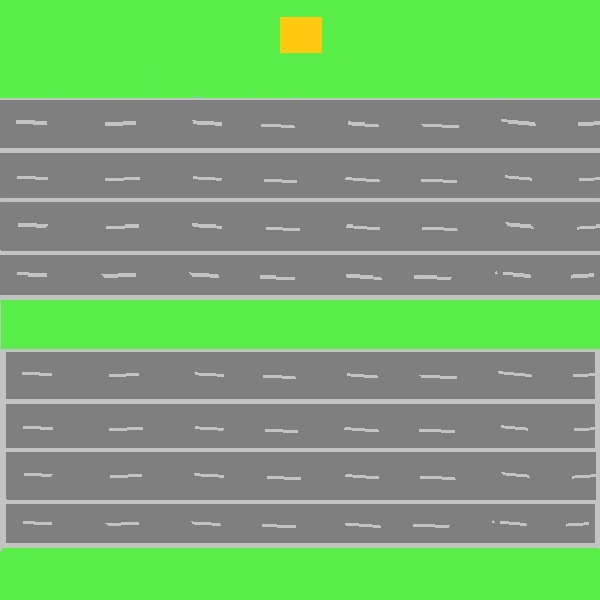
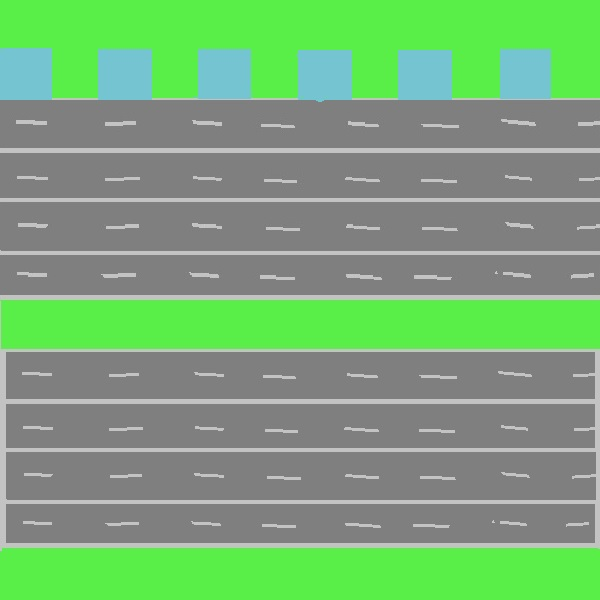
fin

diff --git a/javascript/main.js b/javascript/main.js
@@ -10,7 +10,8 @@ let ctx = miCanvas.getContext("2d");
 let w = miCanvas.clientWidth;
 let h = miCanvas.clientHeight;
 let body = document.getElementById("body");
-let ranita = new Rana(250,550,50,50,"red");
+let ranita = new Rana(250,550,50,50);
+let casa = new Rectangulo(250,0,0,0,100,50,"Brown")
 let carros = new Array();
 let lilypads = new Array();
 window.requestAnimationFrame(animar);
@@ -50,21 +51,24 @@ function colisiones()
         ranita.limiteArriba;
         ranita.limiteAbajo;
 
-        if((carros[i].limiteIzq    < ranita.limiteDer) &&
-        (carros[i].limiteDer    > ranita.limiteIzq) &&
-        (carros[i].limiteArriba < ranita.limiteAbajo) &&  
-        (carros[i].limiteAbajo  > ranita.limiteArriba))
+        let diferencia = Math.abs(carros[i].limiteArriba - ranita.limiteArriba);
+        if((carros[i].limiteIzq < ranita.x)&&
+        (carros[i].limiteDer > ranita.x)&&
+        (diferencia < 45))
         {
-            alert('colision');
+            ranita.morir();
         }
     }
 }
 
 function ganar()
 {
-    if(ranita.juegoCompletado())
+    let diferencia = Math.abs(ranita.limiteArriba - casa.limiteArriba);
+    if((casa.limiteIzq < ranita.x)&&
+        (casa.limiteDer > ranita.x)&&
+        (diferencia < 45))
     {
-        alert("Juego Completado");
+        ranita.juegoCompletado();
     }
 }
 
@@ -73,14 +77,19 @@ function mostrarRana()
     ranita.dibujarRana(ctx);
 }
 
+function mostrarCasa()
+{
+    casa.dibujar(ctx);
+}
+
 function lilypad()
 {
-    lilypads.push(new Nenufar(55,55,0,0,40,40,"darkgreen"));
-    lilypads.push(new Nenufar(155,55,0,0,40,40,"darkgreen"));
-    lilypads.push(new Nenufar(255,55,0,0,40,40,"darkgreen"));
-    lilypads.push(new Nenufar(355,55,0,0,40,40,"darkgreen"));
-    lilypads.push(new Nenufar(455,55,0,0,40,40,"darkgreen"));
-    lilypads.push(new Nenufar(555,55,0,0,40,40,"darkgreen"));
+    lilypads.push(new Nenufar(5,55,0,0,40,40,"darkgreen"));
+    lilypads.push(new Nenufar(105,55,0,0,40,40,"darkgreen"));
+    lilypads.push(new Nenufar(205,55,0,0,40,40,"darkgreen"));
+    lilypads.push(new Nenufar(305,55,0,0,40,40,"darkgreen"));
+    lilypads.push(new Nenufar(405,55,0,0,40,40,"darkgreen"));
+    lilypads.push(new Nenufar(505,55,0,0,40,40,"darkgreen"));
 }
 
 function carros1()
@@ -91,8 +100,8 @@ function carros1()
 
 function carros2()
 {
-    let dx = randomNum(3,7);
-    carros.push(new Carro(0,405,dx,0,100,40,"darkgreen"));
+    let dx = randomNum(3,5);
+    carros.push(new Carro(0,405,dx,0,50,40,"darkgreen"));
 }
 
 function carros3()
@@ -104,7 +113,7 @@ function carros3()
 function carros4()
 {
     let dx = randomNum(3,5);
-    carros.push(new Carro(0,505,dx,0,100,40,"brown"));
+    carros.push(new Carro(0,505,dx,0,50,40,"brown"));
 }
 
 function carros5()
@@ -116,7 +125,7 @@ function carros5()
 function carros6()
 {
     let dx = randomNum(5,8);
-    carros.push(new Carro(0,155,dx,0,100,40,"purple"));
+    carros.push(new Carro(0,155,dx,0,50,40,"purple"));
 }
 
 function carros7()
@@ -128,7 +137,7 @@ function carros7()
 function carros8()
 {
     let dx = randomNum(5,8);
-    carros.push(new Carro(0,255,dx,0,100,40,"white"));
+    carros.push(new Carro(0,255,dx,0,50,40,"white"));
 }
 
 function animar()
@@ -148,7 +157,9 @@ function animar()
         }
     document.getElementById("vidas").value = ranita.vidas;
     mostrarRana();
+    mostrarCasa();
     colisiones();
+    ganar();
     window.requestAnimationFrame(animar);
 }
 

diff --git a/javascript/Rana.js b/javascript/Rana.js
@@ -4,12 +4,12 @@ class Rana extends Rectangulo
     #posicionx
     #posiciony
 
-    constructor(x,y,ancho,alto,imagenRelleno)
+    constructor(x,y,ancho,alto)
     {
-        super(x,y,ancho,alto,imagenRelleno);
+        super(x,y,ancho,alto);
         this.#vidas = 3;
-        this.#posicionx = 400;
-        this.#posiciony = 790;
+        this.#posicionx = super.x;
+        this.#posiciony = super.y;
     }
 
     get vidas() 
@@ -60,10 +60,14 @@ class Rana extends Rectangulo
         if(this.#vidas > 0)
         {
             this.#vidas = this.#vidas - 1;
+            super.x = 250;
+            super.y = 550;
         }
 
         else
         {
+            super.x = 250;
+            super.y = 550;
             window.alert("Game Over")
             location.reload();
         }
@@ -71,16 +75,9 @@ class Rana extends Rectangulo
 
     juegoCompletado()
     {
-        let respuesta;
-        if ((this.#posicionx < 350)&&
-            (this.#posicionx > 250)&&
-            (this.#posiciony < 50))
-        {
-            respuesta = true;
-        }
-        else
-        {
-            respuesta = false;
-        }
+        super.x = 250;
+            super.y = 550;
+            window.alert("Juego Completado")
+            location.reload();
     }
 }

diff --git a/javascript/Carro.js b/javascript/Carro.js
@@ -4,4 +4,5 @@ class Carro extends Rectangulo
     {
         super(x,y,vx,vy,ancho,alto,imagenRelleno);
     }
+
 }
